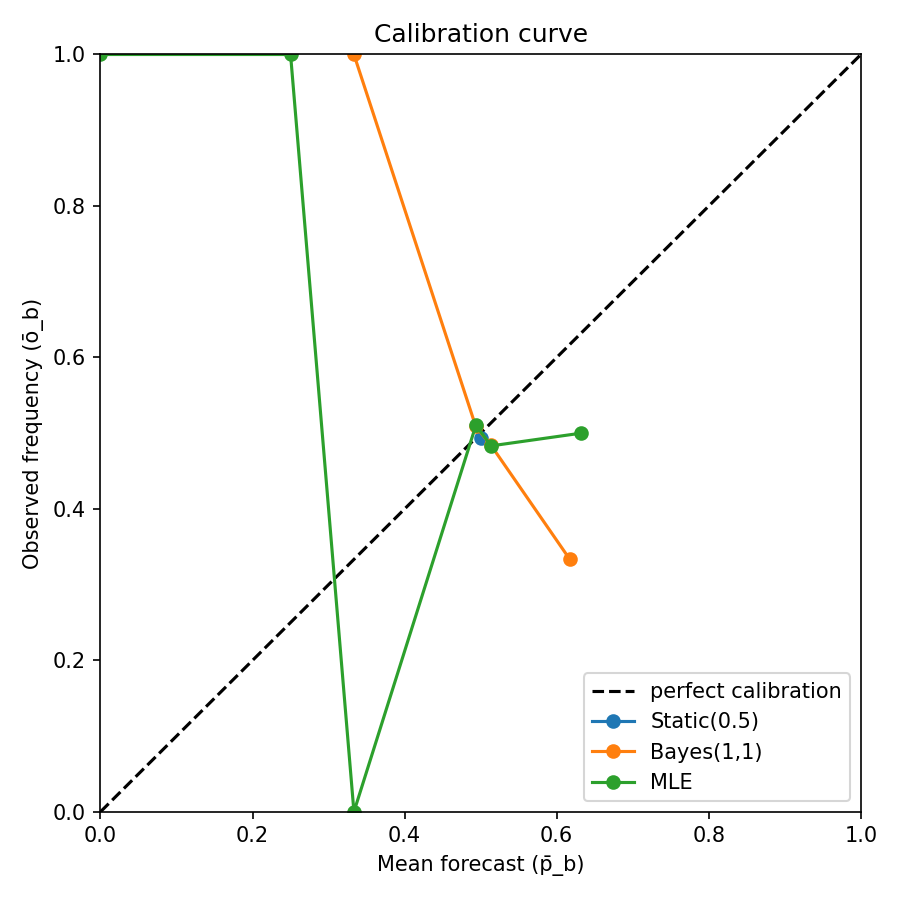
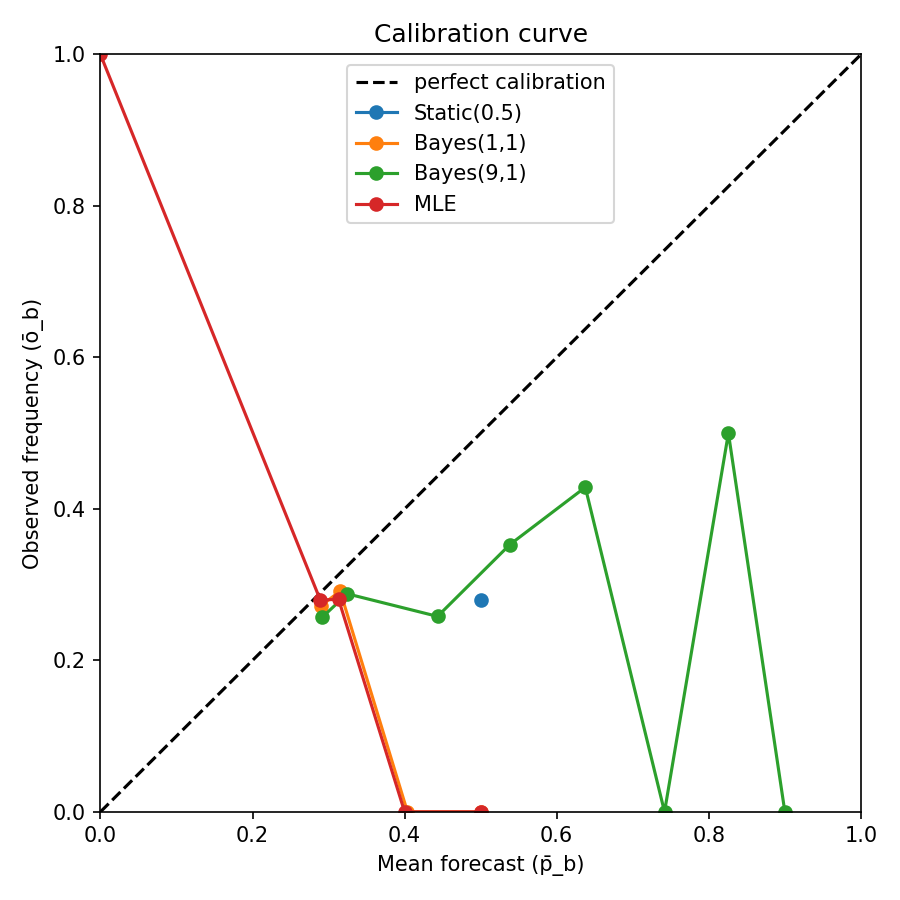
changed bayes' parameters, added calibration plot

diff --git a/scoring_rules/src/main.cpp b/scoring_rules/src/main.cpp
@@ -27,6 +27,7 @@ int main() {
     std::vector<std::unique_ptr<Forecaster>> forecasters;
     forecasters.push_back(std::make_unique<StaticForecaster>(STATIC_BELIEF));
     forecasters.push_back(std::make_unique<BayesianForecaster>(BAYES_ALPHA, BAYES_BETA));
+    forecasters.push_back(std::make_unique<BayesianForecaster>(9.0, 1.0));
     forecasters.push_back(std::make_unique<MLEForecaster>());
 
     const int n = N_TRIALS;

diff --git a/scoring_rules/plot.py b/scoring_rules/plot.py
@@ -5,7 +5,7 @@ df = pd.read_csv("build/results.csv")
 cal = pd.read_csv("build/calibration.csv")
 print(df.columns.tolist())
 
-forecasters = ["Static(0.5)", "Bayes(1,1)", "MLE"]
+forecasters = ["Static(0.5)", "Bayes(1,1)", "Bayes(9,1)", "MLE"]
 
 fig, axes = plt.subplots(3, 1, figsize=(12, 10), sharex=True)
 

diff --git a/scoring_rules/include/config.h b/scoring_rules/include/config.h
@@ -3,7 +3,7 @@
 // Simulation parameters
 constexpr int    N_TRIALS        = 1000;
 constexpr int    RNG_SEED        = 42;
-constexpr double THETA           = 0.5;
+constexpr double THETA           = 0.3;
 
 // StaticForecaster prior
 constexpr double STATIC_BELIEF   = 0.5;
